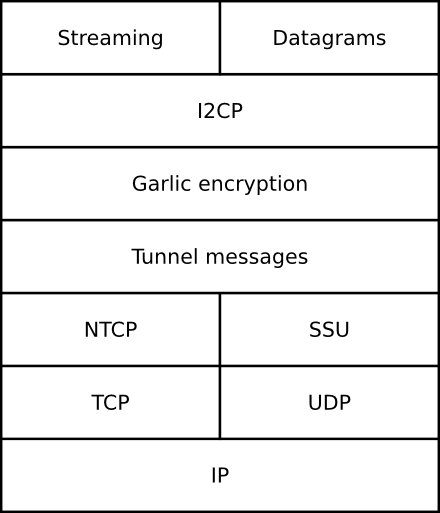
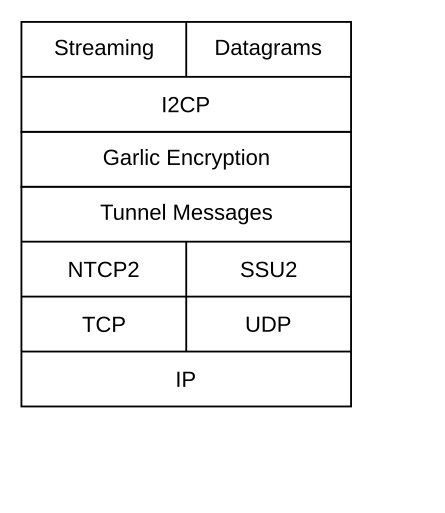
Update protocol stack picture
svg fixup courtesy drzed, used with permission

Changed region(s): [[0.0, 0.0, 1.0, 1.0], [0.4727, 0.9045, 0.5318, 0.9357]]

diff --git a/i2p2www/pages/site/docs/protocol/index.html b/i2p2www/pages/site/docs/protocol/index.html
@@ -1,7 +1,7 @@
 {% extends "global/layout.html" %}
 {% block title %}{% trans %}Protocol Stack{% endtrans %}{% endblock %}
-{% block lastupdated %}2021-12{% endblock %}
-{% block accuratefor %}0.9.52{% endblock %}
+{% block lastupdated %}2024-01{% endblock %}
+{% block accuratefor %}0.9.61{% endblock %}
 {% block content %}
 
 <p>{% trans docs=site_url('docs') -%}
@@ -86,8 +86,7 @@ However, each of these layers adds additional functionality, to allow applicatio
         <br />
         <a href="{{ site_url('docs/api/i2ptunnel') }}">I2PTunnel</a>
         <br />
-        <a href="{{ site_url('docs/api/sam') }}">SAM</a>/<a href="{{ site_url('docs/api/samv2') }}">SAMv2</a>/<a href="{{ site_url('docs/api/samv3') }}">SAMv3</a>(*),
-        <a href="{{ site_url('docs/api/bob') }}">BOB</a>        
+        <a href="{{ site_url('docs/api/samv3') }}">SAMv3</a>
     </li>
     <li>
         {% trans %}<b>I2P Application Proxy Layer:</b> proxy systems.{% endtrans %}
